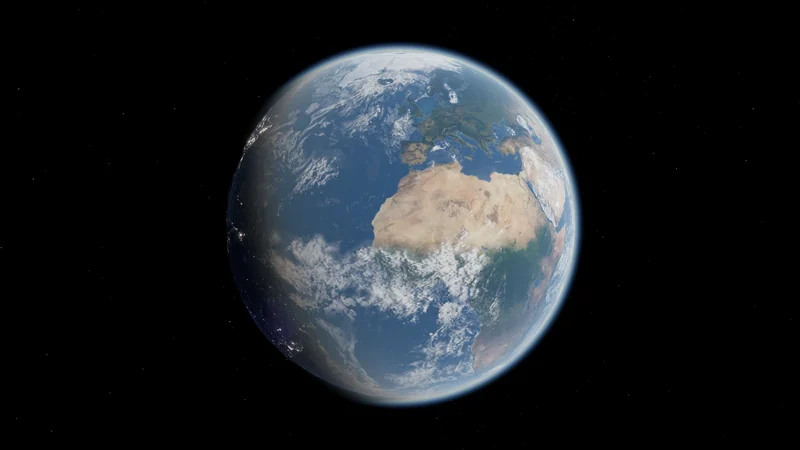
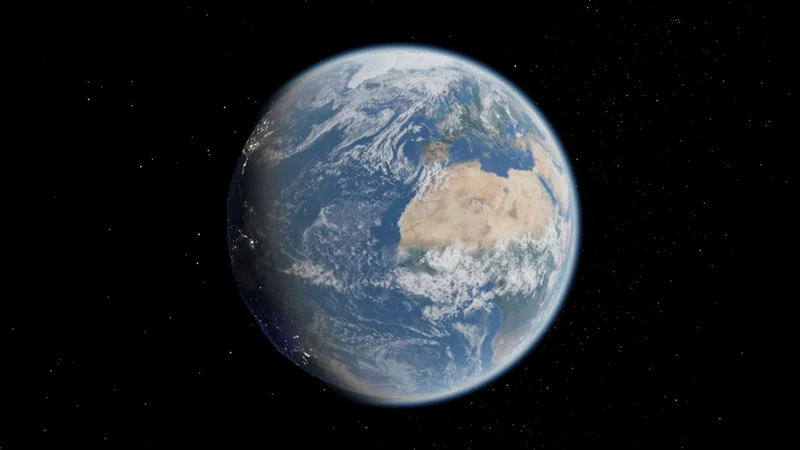
Re-shoot the Earth poster after the cloud-clipping fix; log entry
A post-deploy check of the live sites found that Earth Chronicle's clouds were being cut off
over the continents by the plate meshes (fixed in earth-chronicle 70f4702). Yesterday's poster
was shot with that defect: the cloud band south of the Sahara had a straight edge. Poster,
800px variant and both share cards are re-shot from the fixed app; one log entry (zh + en)
records the fix.

Changed region(s): [[0.2812, 0.1244, 0.7188, 0.8711], [0.3125, 0.7156, 0.3438, 0.7467]]

diff --git a/src/updates.js b/src/updates.js
@@ -10,6 +10,14 @@
 //   url     可选：直达链接
 export const UPDATES = [
   {
+    date: '2026-11-13',
+    target: 'earth-chronicle',
+    title: '云层不再被大陆裁切',
+    text: '非洲等大陆上空的云原来会被裁成边缘笔直的方块，现在按卫星云图的原样铺开；迁徙路线画在云层之上，不会被天气盖住。主页上的海报也随之重拍。',
+    url: 'https://rory-sun.github.io/earth-chronicle/?mode=now',
+    en: { title: 'Clouds no longer clipped by the continents', text: 'Clouds over Africa and other continents used to be cut into straight-edged blocks; they now spread as the satellite cloud map has them, and migration routes are drawn above the weather. The poster on this page was re-shot to match.' },
+  },
+  {
     date: '2026-11-12',
     target: 'site',
     title: '首屏地球有了云层',
